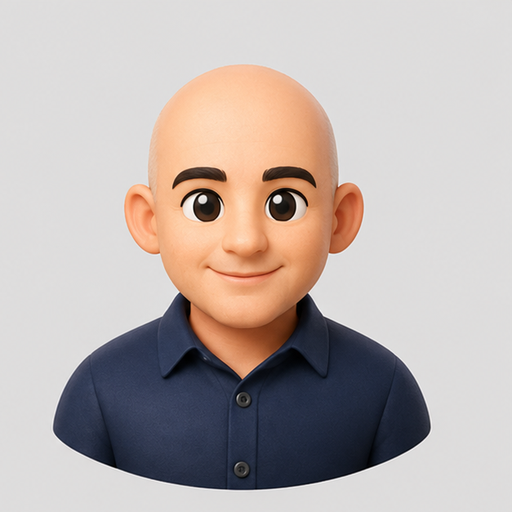
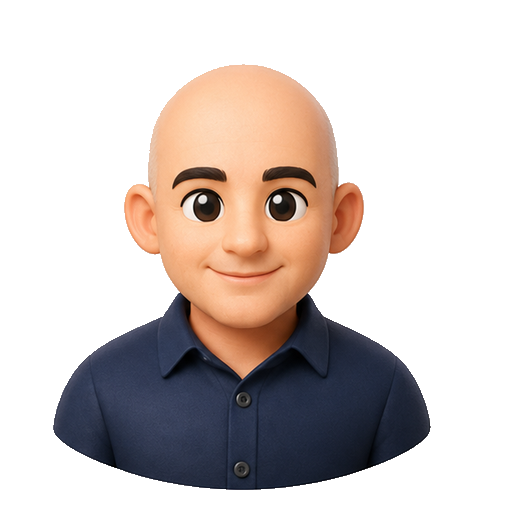
Frameless glowing characters and tinted glimmering powerup orbs
Character art is background-stripped so busts rise straight out of the
holes, glowing in their type colour instead of sitting in framed
arches. Real powerup icons land in colour-coded orbs with a sweeping
shine animation. Emoji fallbacks unchanged.

diff --git a/components/Character.tsx b/components/Character.tsx
@@ -8,26 +8,35 @@ export default function Character({ entity, skin }: { entity: Entity; skin: bool
   const def = CHARACTERS[type];
   const src = skin ? PROMOTED_IMAGES[type] : def.image;
   const [failed, setFailed] = useState(false);
+  const cutout = !!src && !failed;
   return (
     <div className="pop pointer-events-none absolute inset-1 flex flex-col items-center justify-end">
       {entity.maxHp > 1 && (
-        <div className="mb-1 h-2 w-4/5 overflow-hidden border-2 border-[var(--color-ink)] bg-[var(--color-paper)]">
+        <div className="z-10 mb-1 h-2 w-4/5 overflow-hidden border-2 border-[var(--color-ink)] bg-[var(--color-paper)]">
           <div
             className="h-full bg-[var(--color-accent)] transition-[width] duration-75"
             style={{ width: `${(entity.hp / entity.maxHp) * 100}%` }}
           />
         </div>
       )}
-      <div
-        className={`flex w-full flex-1 items-center justify-center overflow-hidden rounded-t-full border-2 border-[var(--color-ink)] ${def.bg} text-4xl sm:text-5xl`}
-      >
-        {src && !failed ? (
-          // eslint-disable-next-line @next/next/no-img-element
-          <img src={src} alt={def.name} onError={() => setFailed(true)} className="h-full w-full object-cover" />
-        ) : (
+      {cutout ? (
+        // frameless cutout rising from the hole, glowing in the character's tag colour
+        <img
+          src={src!}
+          alt={def.name}
+          onError={() => setFailed(true)}
+          className="min-h-0 w-full flex-1 object-contain object-bottom"
+          style={{
+            filter: `drop-shadow(0 0 5px var(--color-char-${type})) drop-shadow(0 0 14px var(--color-char-${type}))`,
+          }}
+        />
+      ) : (
+        <div
+          className={`flex w-full flex-1 items-center justify-center overflow-hidden rounded-t-full border-2 border-[var(--color-ink)] ${def.bg} text-4xl sm:text-5xl`}
+        >
           <span>{def.emoji}</span>
-        )}
-      </div>
+        </div>
+      )}
     </div>
   );
 }

diff --git a/components/Hole.tsx b/components/Hole.tsx
@@ -10,7 +10,7 @@ function PowerupIcon({ type }: { type: PowerupType }) {
   const [failed, setFailed] = useState(false);
   return def.image && !failed ? (
     // eslint-disable-next-line @next/next/no-img-element
-    <img src={def.image} alt={def.name} onError={() => setFailed(true)} className="h-full w-full rounded-full object-cover" />
+    <img src={def.image} alt={def.name} onError={() => setFailed(true)} className="h-full w-full object-contain p-1" />
   ) : (
     <span>{def.emoji}</span>
   );
@@ -48,7 +48,10 @@ export default function Hole({ index, hint, showHint, entity, fx, skin, onWhack 
           <Character key={entity.id} entity={entity} skin={skin} />
         ) : (
           <div className="gift pointer-events-none absolute inset-0 flex items-center justify-center">
-            <span className="flex h-3/5 w-3/5 items-center justify-center overflow-hidden rounded-full border-2 border-[var(--color-ink)] bg-[var(--color-accent-2)] text-3xl shadow-[2px_2px_0_var(--color-ink)] sm:text-4xl">
+            <span
+              className="shine relative flex h-3/5 w-3/5 items-center justify-center overflow-hidden rounded-full border-2 border-[var(--color-ink)] text-3xl shadow-[2px_2px_0_var(--color-ink)] sm:text-4xl"
+              style={{ background: `var(--color-pu-${entity.type})` }}
+            >
               <PowerupIcon type={entity.type as PowerupType} />
             </span>
           </div>

diff --git a/app/globals.css b/app/globals.css
@@ -129,6 +129,27 @@ h3,
   animation: bonk 0.65s var(--ease-out) forwards;
 }
 
+/* sweeping glimmer across powerup orbs */
+@keyframes shine {
+  0% {
+    transform: translateX(-160%) rotate(20deg);
+  }
+  55%,
+  100% {
+    transform: translateX(260%) rotate(20deg);
+  }
+}
+.shine::after {
+  content: "";
+  position: absolute;
+  top: -20%;
+  bottom: -20%;
+  left: 0;
+  width: 40%;
+  background: linear-gradient(90deg, transparent, rgba(255, 255, 255, 0.75), transparent);
+  animation: shine 2.2s linear infinite;
+}
+
 @keyframes gift-pulse {
   0%,
   100% {

diff --git a/tokens.css b/tokens.css
@@ -12,6 +12,13 @@
   --color-accent-ink: oklch(95% 0.035 90);
   --color-focus: oklch(30% 0.16 250);
 
+  /* powerup colour coding — orb tints per type */
+  --color-pu-freeze: oklch(85% 0.05 230);
+  --color-pu-double: oklch(85% 0.13 90);
+  --color-pu-slow: oklch(80% 0.1 145);
+  --color-pu-shield: oklch(78% 0.03 260);
+  --color-pu-sweep: oklch(80% 0.07 70);
+
   /* game-character tags — tuned to the Diner Sign palette */
   --color-char-regular: oklch(78% 0.09 240);
   --color-char-fast: oklch(78% 0.14 60);
